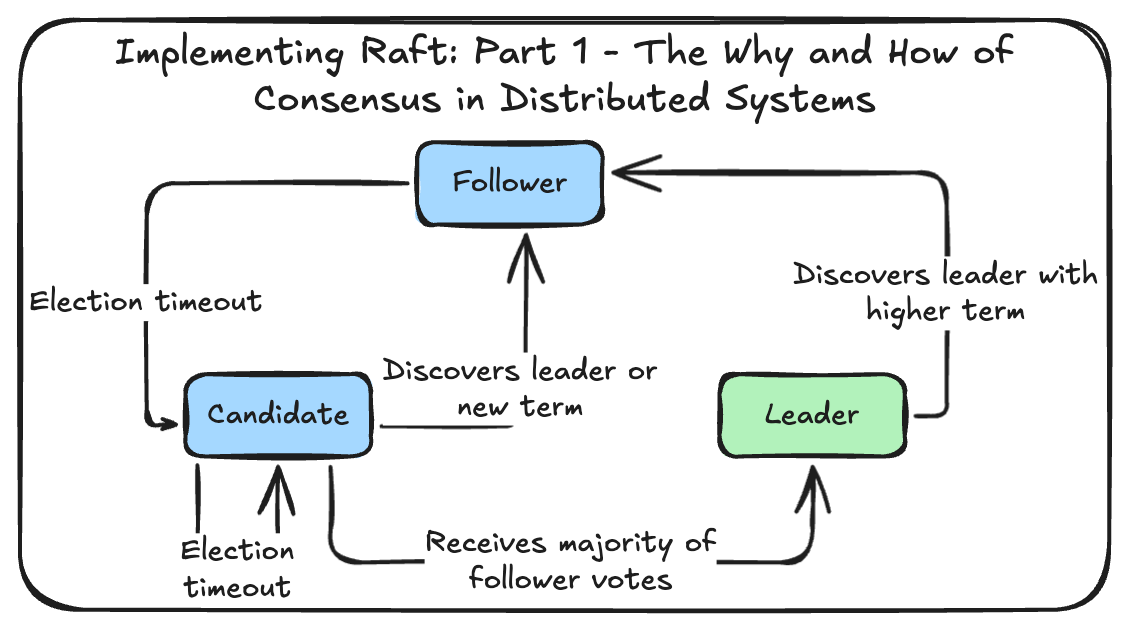
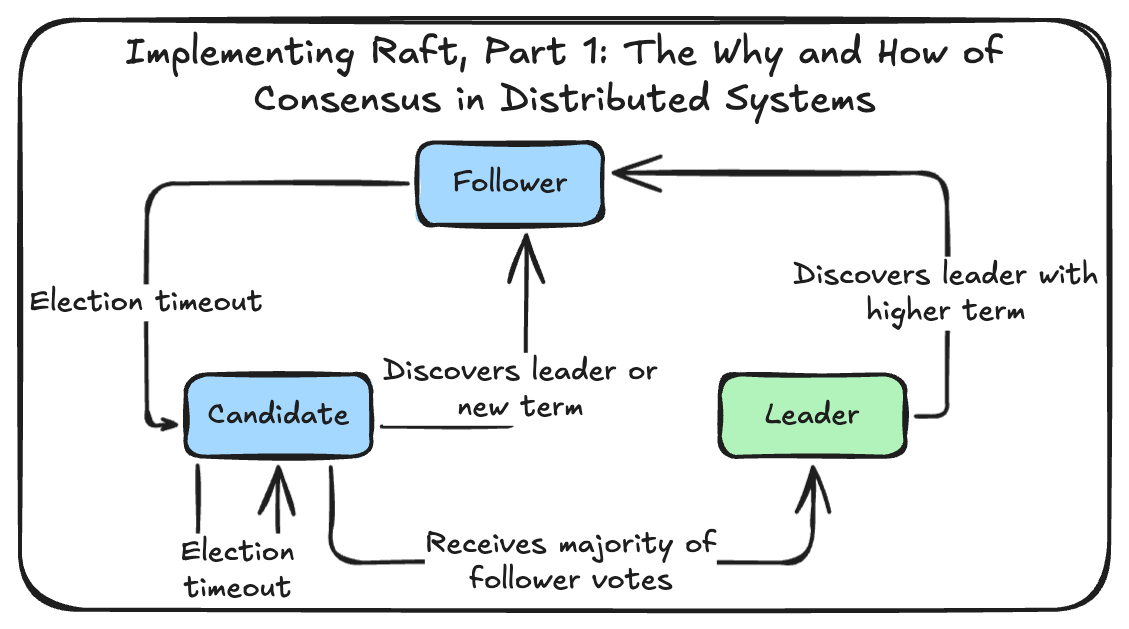
Change titles in Raft series and Nagle's algorithm posts for consistency

diff --git a/_posts/2025-01-01-tcp-nagle-algorithm.md b/_posts/2025-01-01-tcp-nagle-algorithm.md
@@ -26,7 +26,7 @@ This post explains how Nagle’s algorithm works, why disabling it might be bene
 
 ## What is Nagle's algorithm?
 
-Nagle’s algorithm was introduced by John Nagle, [RFC 896](https://datatracker.ietf.org/doc/html/rfc896), to address the *“Small-Packet Problem”* in TCP, which arises when a stream of very small data segments (e.g., keystrokes or one-byte messages) flood the network, causing excessive network overhead.
+Nagle’s algorithm was introduced by John Nagle, [RFC 896](https://datatracker.ietf.org/doc/html/rfc896), to address the *"Small-Packet Problem"* in TCP, which arises when a stream of very small data segments (e.g., keystrokes or one-byte messages) flood the network, causing excessive network overhead.
 
 Each TCP packet carries headers (TCP, IP, Ethernet) that can amount to 40+ bytes of overhead on top of the actual payload. If an application sends many small packets (e.g., 1-byte payloads each time), network overhead skyrockets.
 
@@ -73,7 +73,7 @@ However, mixing Nagle’s Algorithm with Delayed ACK may create **a feedback loo
 
 Result: Both sides wait- **Nagle's Algorithm waits for the ACK to send more data, and Delayed ACK waits to send the ACK**, creating latency spikes.
 
-This is sometimes referred to as the *“Silly Window Syndrome”* or an extension of it, where neither side proceeds quickly due to mismatched waiting strategies.
+This is sometimes referred to as the *"Silly Window Syndrome"* or an extension of it, where neither side proceeds quickly due to mismatched waiting strategies.
 
 <blockquote cite="https://news.ycombinator.com/item?id=10608356">
   <p>

diff --git a/_posts/2025-06-07-implementing-raft-part-1.md b/_posts/2025-06-07-implementing-raft-part-1.md
@@ -1,6 +1,6 @@
 ---
 layout: post
-title: "Implementing Raft: Part 1 - The Why and How of Consensus in Distributed Systems"
+title: "Implementing Raft, Part 1: Consensus in Distributed Systems"
 date: 2025-06-07
 category: Implementing Raft
 description: "Before we code, let's dive into the core concepts of distributed consensus and see how Raft elects a leader to keep distributed systems in sync, even when things go wrong."

diff --git a/_posts/2025-06-28-implementing-raft-part-3.md b/_posts/2025-06-28-implementing-raft-part-3.md
@@ -1,6 +1,6 @@
 ---
 layout: post
-title: "Implementing Raft: Part 3 - Log Replication"
+title: "Implementing Raft, Part 3: Log Replication"
 date: 2025-06-28
 category: Implementing Raft
 description: "From heartbeats to data synchronization: implementing the core logic that keeps distributed nodes in perfect sync, even when networks fail and servers crash."

diff --git a/_posts/2025-06-14-implementing-raft-part-2.md b/_posts/2025-06-14-implementing-raft-part-2.md
@@ -1,6 +1,6 @@
 ---
 layout: post
-title: "Implementing Raft: Part 2 - Leader Election"
+title: "Implementing Raft, Part 2: Leader Election"
 date: 2025-06-14
 category: Implementing Raft
 description: "Let's bring Raft's leader election to life with Ruby code. We'll implement the core logic that allows nodes to elect a leader, even when things go wrong."
